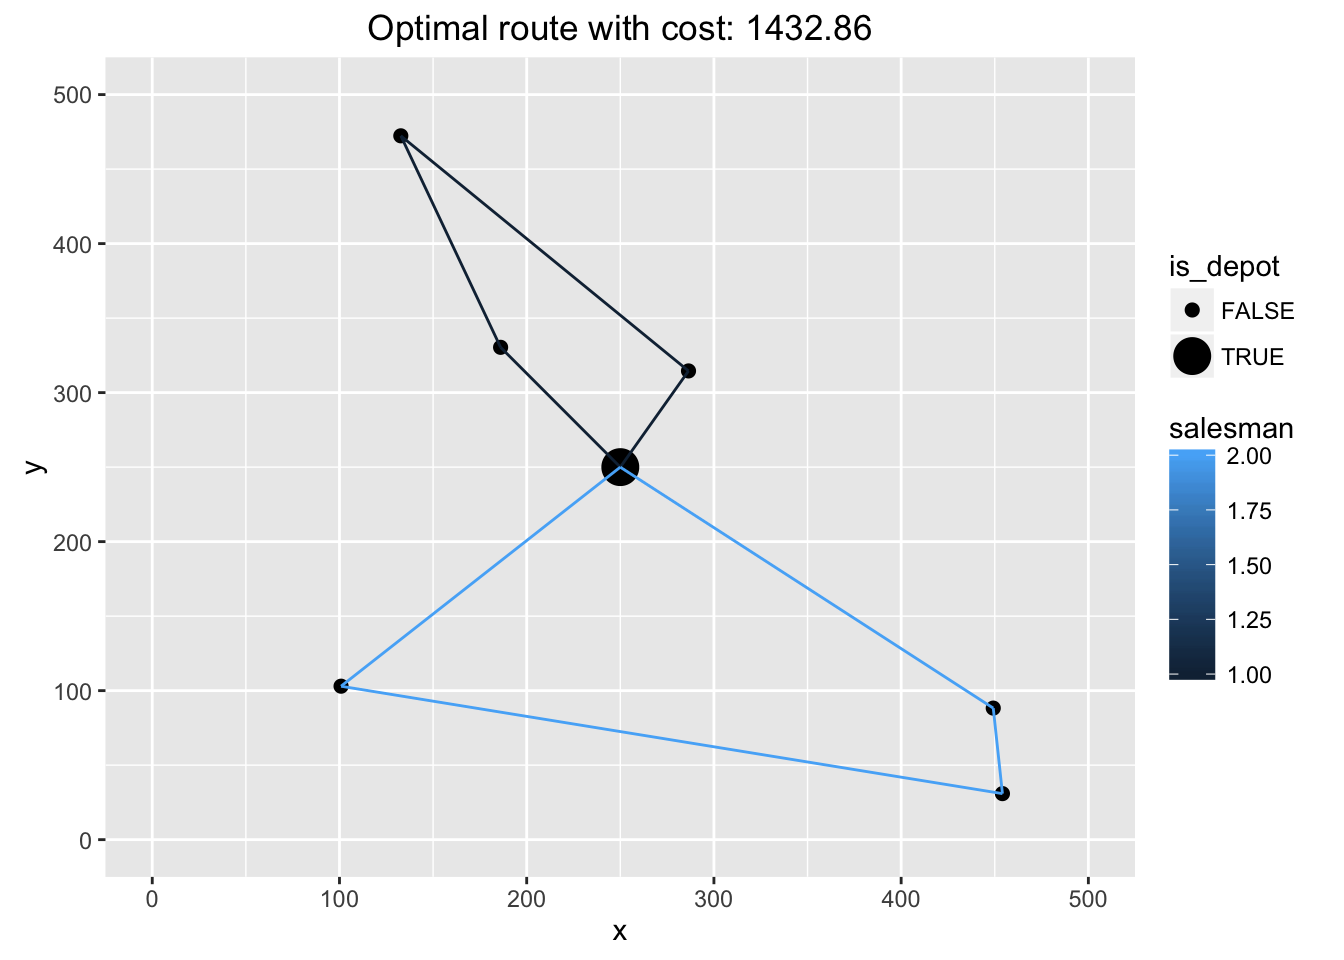
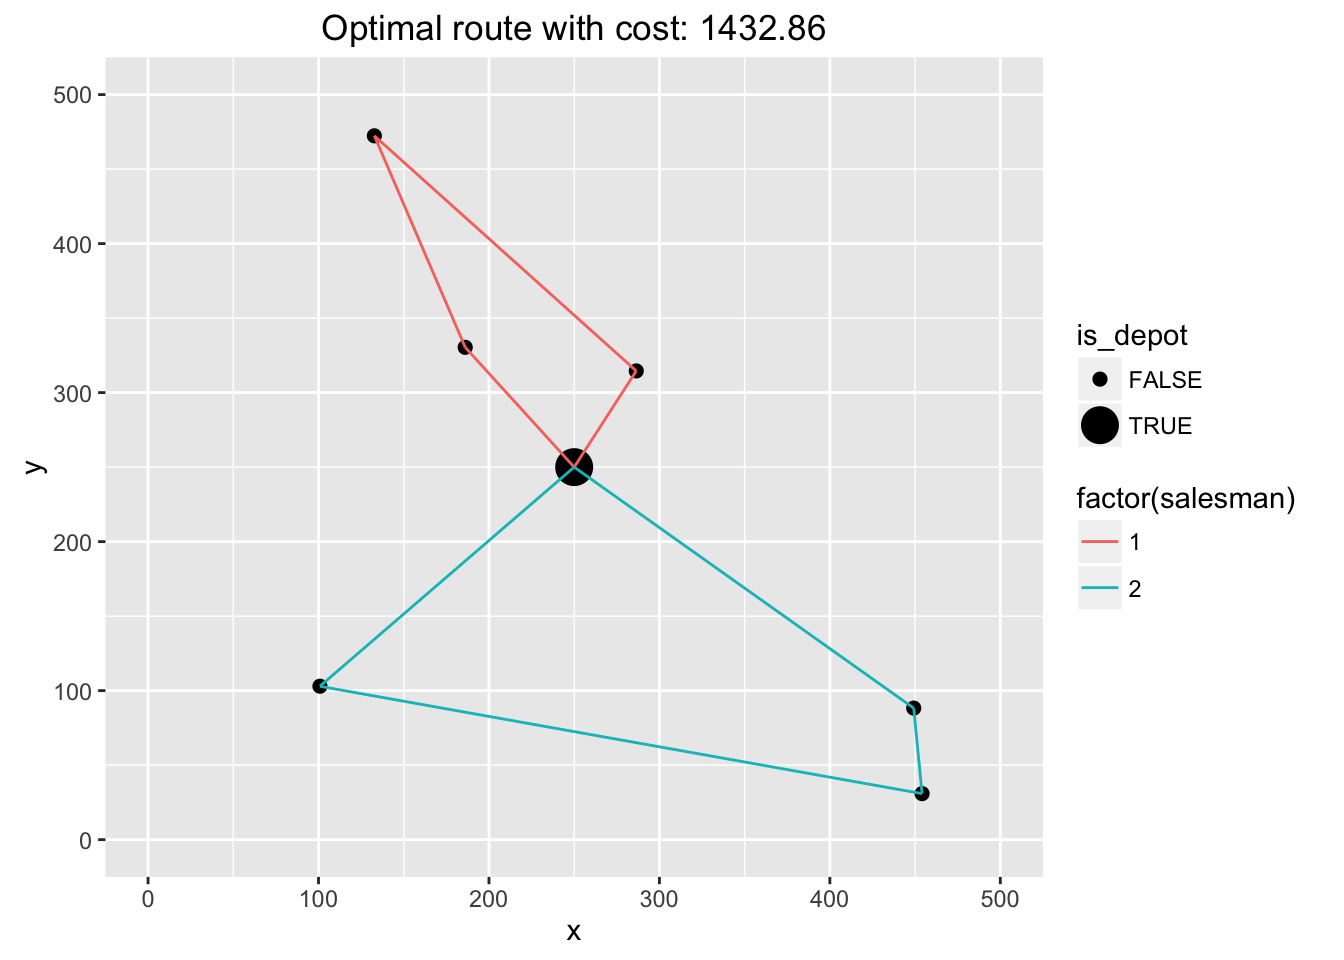
Update docs

diff --git a/docs/articles/docs/articles/problem-mtsp.html b/docs/articles/docs/articles/problem-mtsp.html
@@ -218,7 +218,7 @@ model</code></pre></div>
 </tr></tbody></table><p>And plot it:</p>
 <div class="sourceCode"><pre class="sourceCode r"><code class="sourceCode r"><span class="kw">ggplot</span>(cities, <span class="kw">aes</span>(x, y)) +<span class="st"> </span>
 <span class="st">  </span><span class="kw">geom_point</span>(<span class="kw">aes</span>(<span class="dt">size =</span> is_depot)) +<span class="st"> </span>
-<span class="st">  </span><span class="kw">geom_line</span>(<span class="dt">data =</span> paths, <span class="kw">aes</span>(<span class="dt">group =</span> trip_id, <span class="dt">color =</span> salesman)) +<span class="st"> </span>
+<span class="st">  </span><span class="kw">geom_line</span>(<span class="dt">data =</span> paths, <span class="kw">aes</span>(<span class="dt">group =</span> trip_id, <span class="dt">color =</span> <span class="kw">factor</span>(salesman))) +<span class="st"> </span>
 <span class="st">  </span><span class="kw">ggtitle</span>(<span class="kw">paste0</span>(<span class="st">"Optimal route with cost: "</span>, <span class="kw">round</span>(result@objective_value, <span class="dv">2</span>))) +
 <span class="st">  </span><span class="kw">scale_y_continuous</span>(<span class="dt">limits =</span> <span class="kw">c</span>(<span class="dv">0</span>, max_y)) +<span class="st"> </span>
 <span class="st">  </span><span class="kw">scale_x_continuous</span>(<span class="dt">limits =</span> <span class="kw">c</span>(<span class="dv">0</span>, max_x))</code></pre></div>
